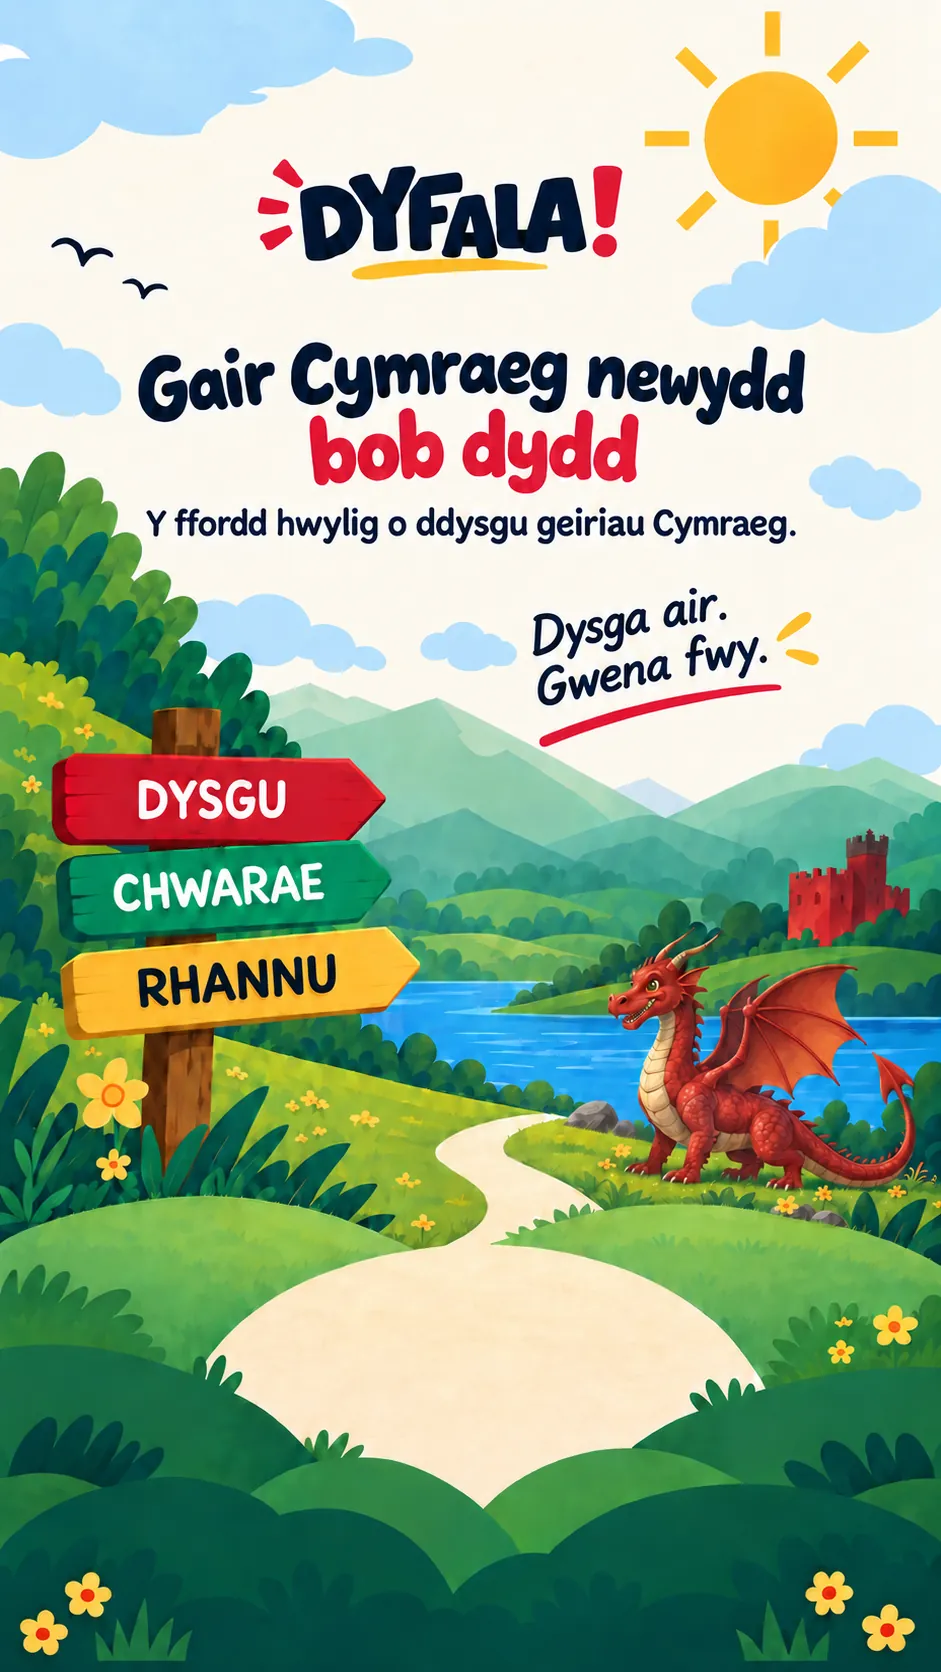
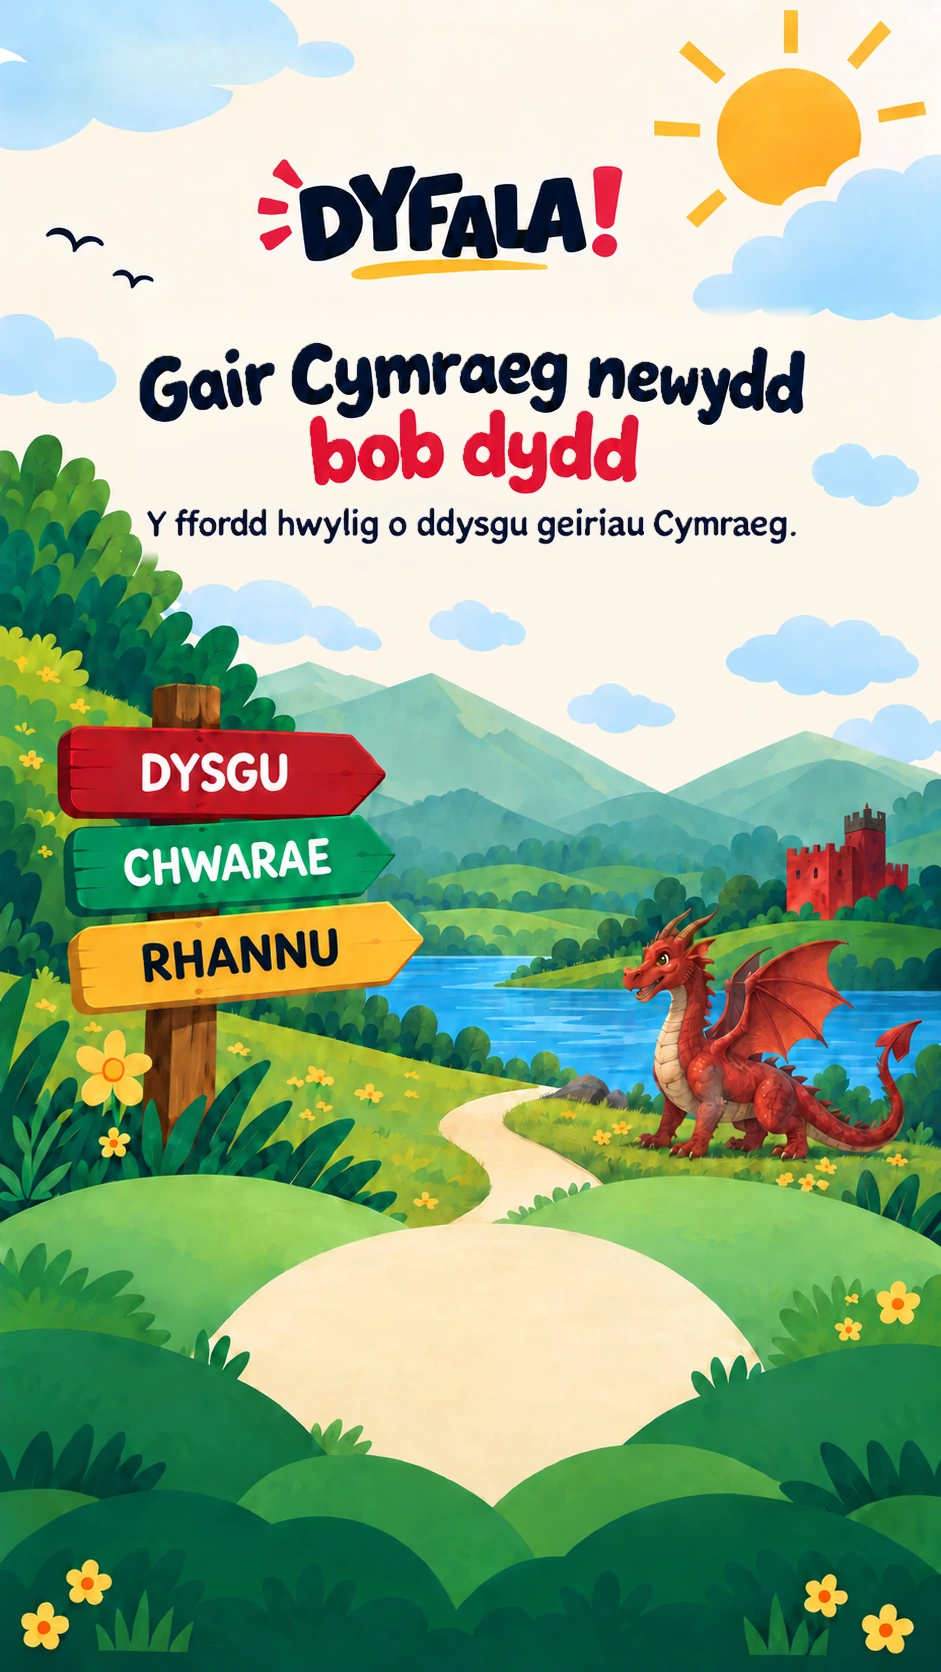
Build 65 lock shared scenery and use final EN/CY backgrounds

diff --git a/flutter_app/lib/screens/home_screen.dart b/flutter_app/lib/screens/home_screen.dart
@@ -1,5 +1,3 @@
-import 'dart:math' as math;
-
 import 'package:flutter/material.dart';
 import 'package:google_fonts/google_fonts.dart';
 
@@ -30,33 +28,14 @@ class HomeScreen extends StatelessWidget {
             right: -3,
             top: -3,
             bottom: -3,
-            child: Stack(
-              fit: StackFit.expand,
-              children: [
-                // Build 65: keep one fixed illustration underneath both
-                // languages. Only the copy changes, so the scenery cannot
-                // shift when EN/CY is toggled.
-                Image.asset(
-                  'assets/approved/home-en-final.webp',
-                  fit: BoxFit.cover,
-                  alignment: Alignment.topCenter,
-                  filterQuality: FilterQuality.high,
-                  gaplessPlayback: true,
-                ),
-                if (controller.uiLanguage == UiLanguage.welsh)
-                  IgnorePointer(
-                    child: ClipPath(
-                      clipper: const _WelshCopyOnlyClipper(),
-                      child: Image.asset(
-                        'assets/approved/home-cy-final.webp',
-                        fit: BoxFit.cover,
-                        alignment: Alignment.topCenter,
-                        filterQuality: FilterQuality.high,
-                        gaplessPlayback: true,
-                      ),
-                    ),
-                  ),
-              ],
+            child: Image.asset(
+              controller.uiLanguage == UiLanguage.welsh
+                  ? 'assets/approved/home-cy-final.webp'
+                  : 'assets/approved/home-en-final.webp',
+              fit: BoxFit.cover,
+              alignment: Alignment.topCenter,
+              filterQuality: FilterQuality.high,
+              gaplessPlayback: true,
             ),
           ),
           SafeArea(
@@ -143,42 +122,6 @@ class HomeScreen extends StatelessWidget {
       ),
     );
   }
-}
-
-class _WelshCopyOnlyClipper extends CustomClipper<Path> {
-  const _WelshCopyOnlyClipper();
-
-  static const double _sourceWidth = 941;
-  static const double _sourceHeight = 1672;
-
-  @override
-  Path getClip(Size size) {
-    final scale = math.max(
-      size.width / _sourceWidth,
-      size.height / _sourceHeight,
-    );
-    final renderedWidth = _sourceWidth * scale;
-    final dx = (size.width - renderedWidth) / 2;
-
-    Rect mapRect(double left, double top, double right, double bottom) {
-      return Rect.fromLTRB(
-        dx + left * scale,
-        top * scale,
-        dx + right * scale,
-        bottom * scale,
-      );
-    }
-
-    // These two areas contain only the language-specific home copy.
-    // Everything else — logo, sky, hills, dragon, signpost, path and
-    // decorative scenery — always comes from the exact same base image.
-    return Path()
-      ..addRect(mapRect(125, 292, 825, 552))
-      ..addRect(mapRect(500, 560, 835, 735));
-  }
-
-  @override
-  bool shouldReclip(covariant _WelshCopyOnlyClipper oldClipper) => false;
 }
 
 class _HelpPage extends StatelessWidget {
